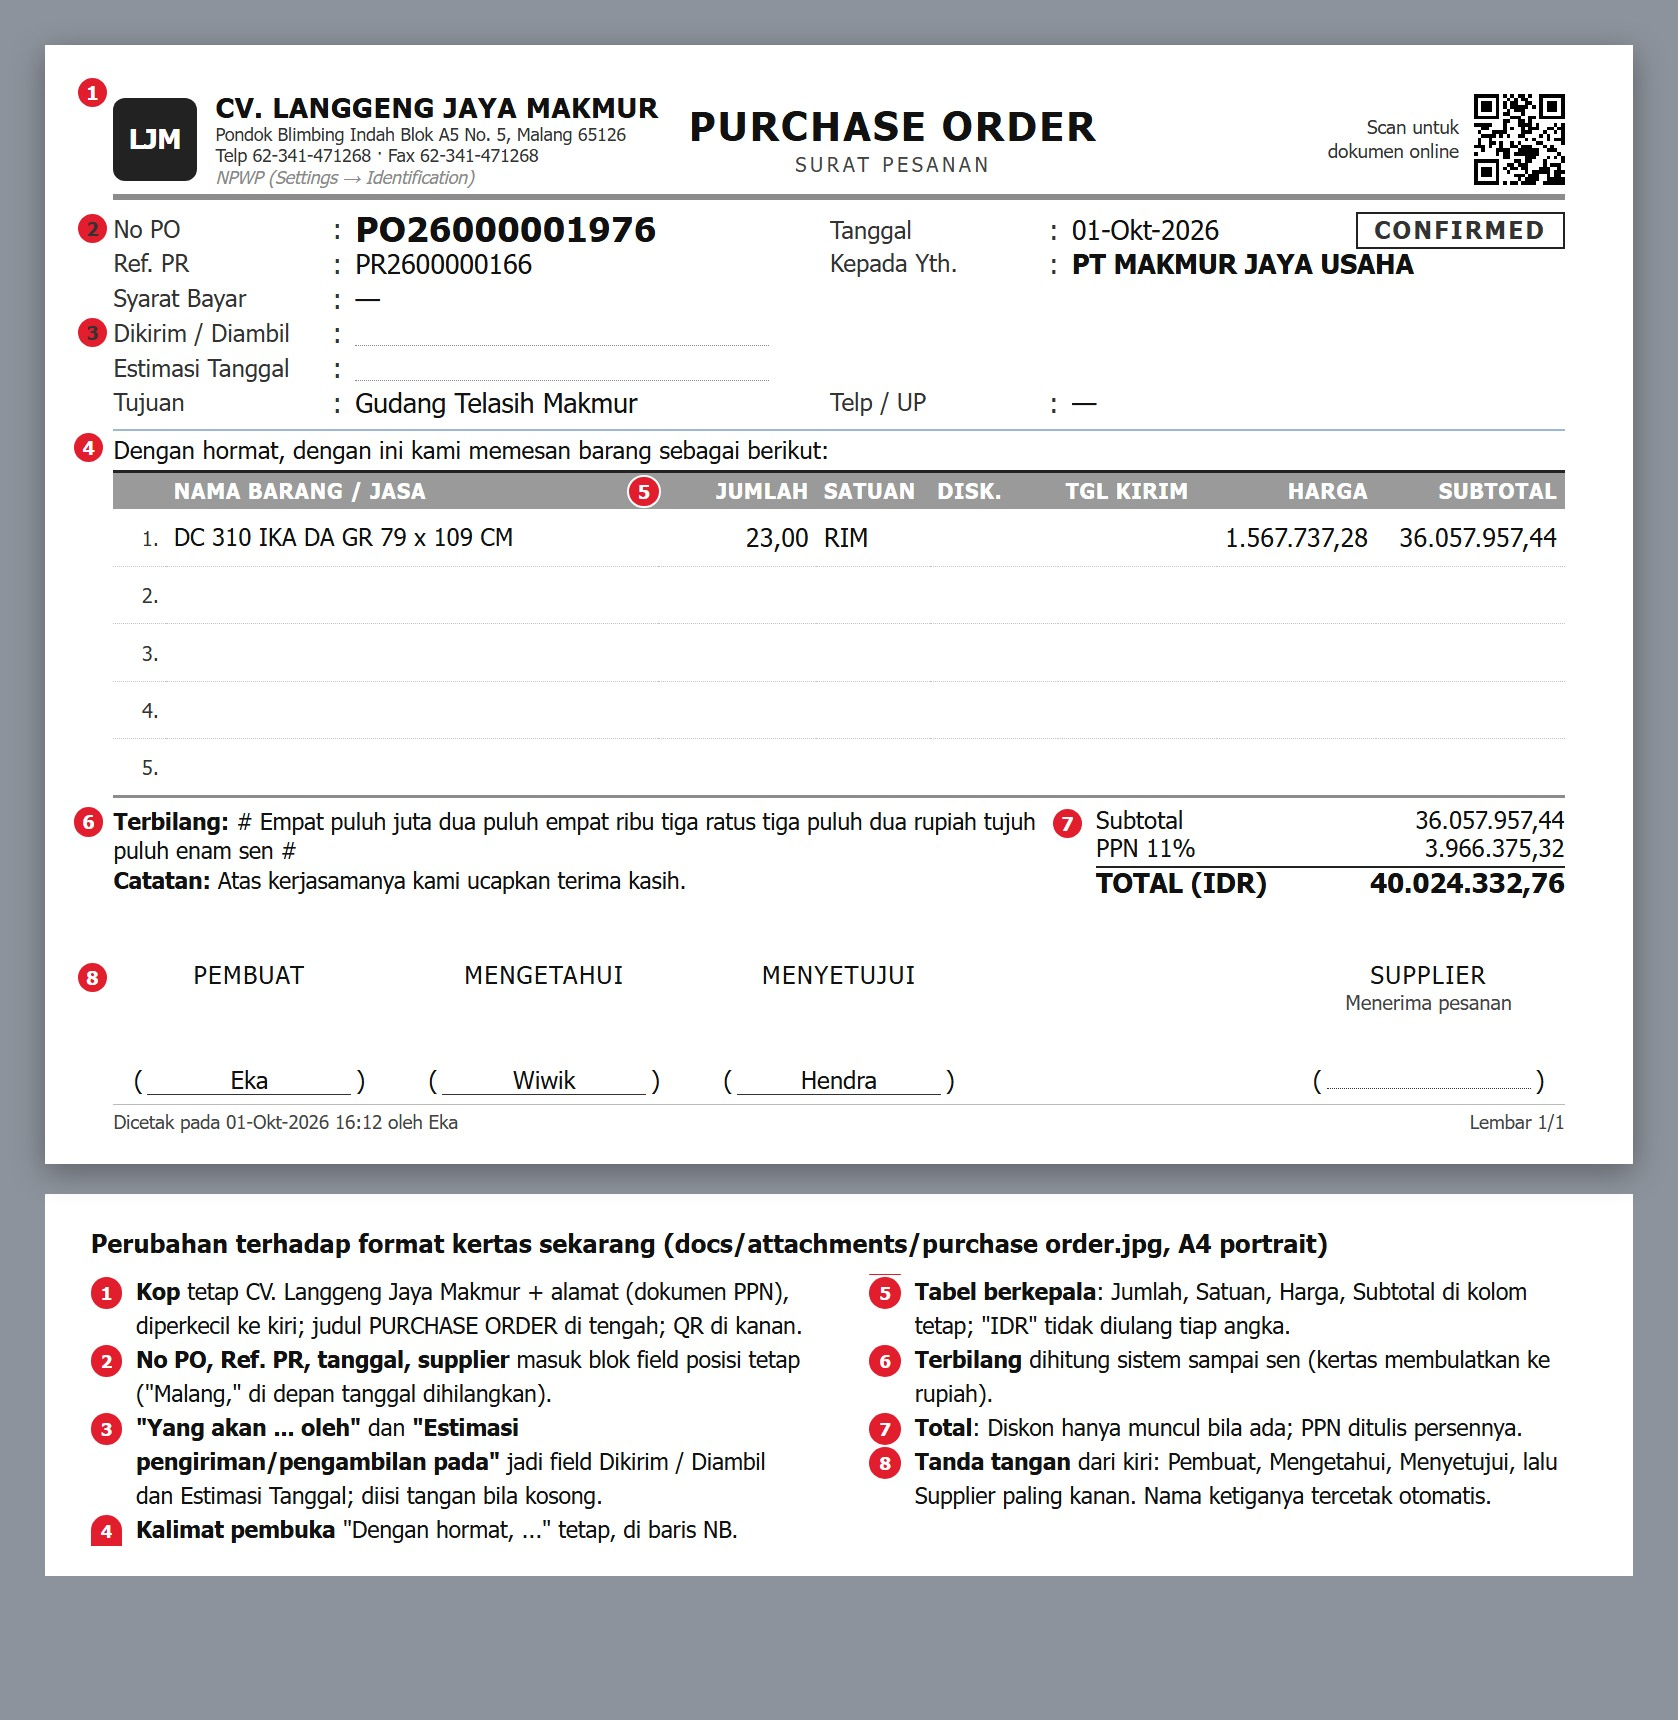
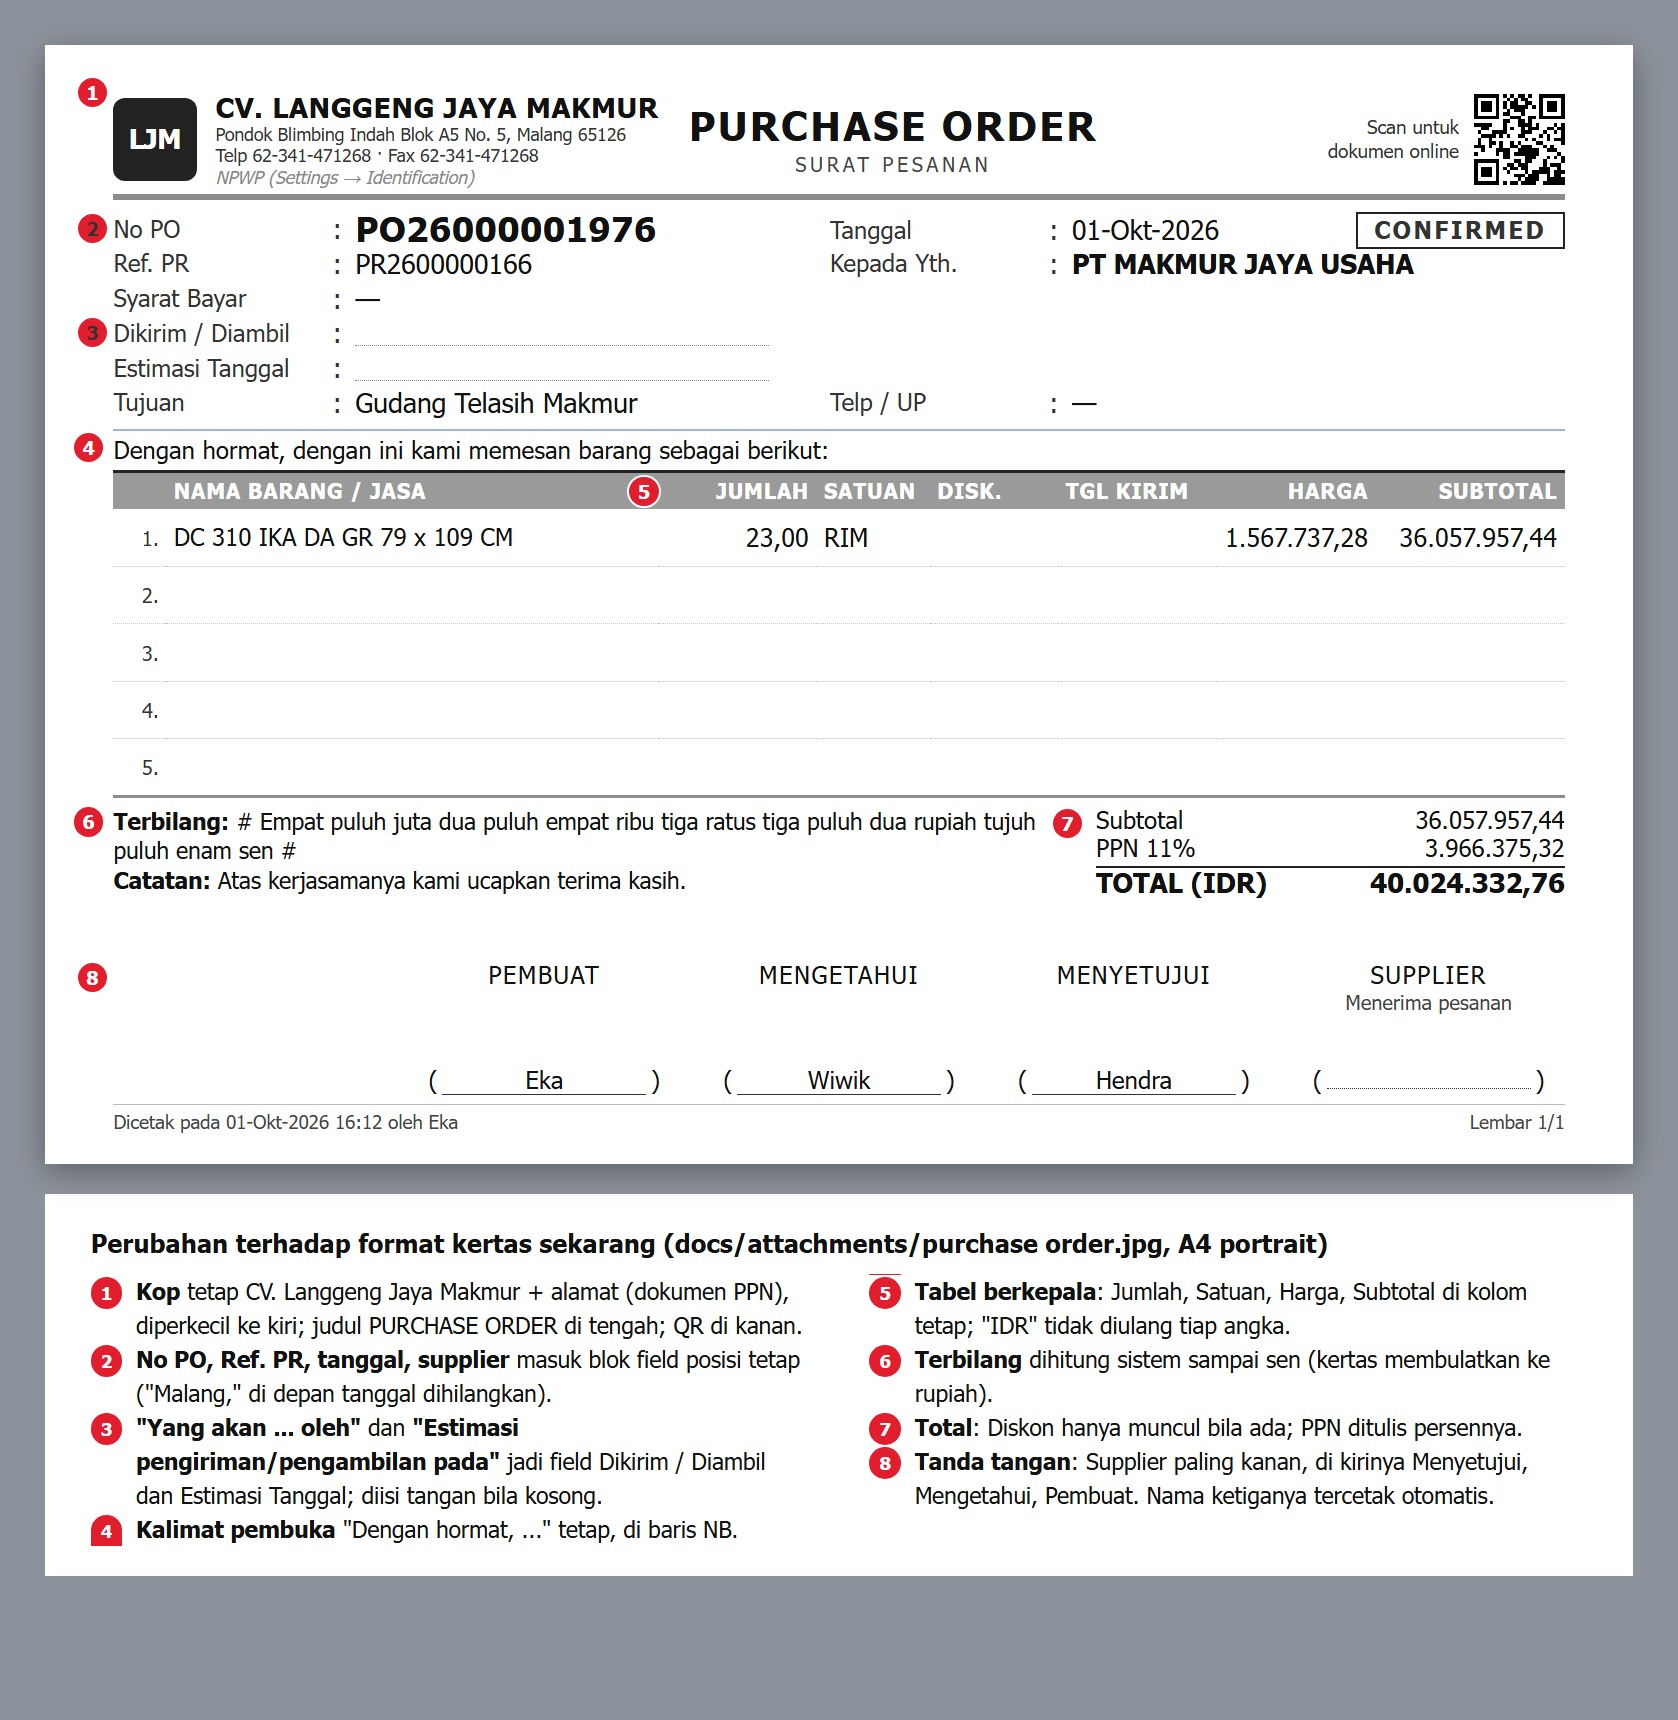
Print mockups: Purchase Order signatures packed to the right (Pembuat, Mengetahui, Menyetujui, Supplier)
User correction 2026-10-01: supplier at the far right, then Hendra, Wiwik, Eka; empty slot moves to the left.

diff --git a/docs/mockups/print_doc/printdoc.js b/docs/mockups/print_doc/printdoc.js
@@ -53,7 +53,7 @@ class PrintDoc {
     static priced = false;              // true = kolom harga + kotak total rupiah + terbilang
     static receivers = [];              // tanda tangan slot 1-2: [peran, keterangan]
     static internal = ['', '', ''];     // keterangan di bawah Mengetahui, Menyetujui, Pembuat
-    static signReversed = false;        // true = Pembuat, Mengetahui, Menyetujui dari kiri, pihak luar paling kanan (PO)
+    static signReversed = false;        // true = pihak luar paling kanan, di kirinya rapat Menyetujui, Mengetahui, Pembuat (PO)
     static qrHint = 'dokumen online';
 
     constructor(data) {
@@ -146,7 +146,7 @@ class PrintDoc {
         const [r1, r2] = this.f.receivers, [a, b, c] = this.f.internal;
         const slot = s => s ? `<div><span>${esc(s[0])}</span><small>${esc(s[1])}</small><i></i><b>(${s[2] ? `<u class="nm">${esc(s[2])}</u>` : '<u></u>'})</b></div>` : '<div></div>';
         const know = ['Mengetahui', a, this.d.knownBy], agree = ['Menyetujui', b, this.d.approvedBy], maker = ['Pembuat', c, this.d.createdBy];
-        return `<section class="sign">${(this.f.signReversed ? [maker, know, agree, r2, r1] : [r1, r2, know, agree, maker]).map(slot).join('')}</section>`;
+        return `<section class="sign">${(this.f.signReversed ? [r2, maker, know, agree, r1] : [r1, r2, know, agree, maker]).map(slot).join('')}</section>`;
     }
 
     foot() {

diff --git a/docs/mockups/print_doc/samples.js b/docs/mockups/print_doc/samples.js
@@ -79,7 +79,7 @@ const SAMPLES = {
                 '<b>Tabel berkepala</b>: Jumlah, Satuan, Harga, Subtotal di kolom tetap; "IDR" tidak diulang tiap angka.',
                 '<b>Terbilang</b> dihitung sistem sampai sen (kertas membulatkan ke rupiah).',
                 '<b>Total</b>: Diskon hanya muncul bila ada; PPN ditulis persennya.',
-                '<b>Tanda tangan</b> dari kiri: Pembuat, Mengetahui, Menyetujui, lalu Supplier paling kanan. Nama ketiganya tercetak otomatis.',
+                '<b>Tanda tangan</b>: Supplier paling kanan, di kirinya Menyetujui, Mengetahui, Pembuat. Nama ketiganya tercetak otomatis.',
             ],
         },
     },

diff --git a/docs/mockups/print_doc/documents.js b/docs/mockups/print_doc/documents.js
@@ -69,7 +69,7 @@ PrintDoc.register(class PurchaseOrder extends PrintDoc {
     static extra = [{key: 'disc', label: 'DISK.', width: 17}, {key: 'due_date', label: 'TGL KIRIM', width: 21, type: 'date'}];
     static priced = true;
     static receivers = [['Supplier', 'Menerima pesanan']];
-    // Keputusan user 2026-10-01: PO dari kiri = Pembuat, Mengetahui, Menyetujui, lalu Supplier paling kanan.
+    // Keputusan user 2026-10-01: PO dari kanan = Supplier, Menyetujui, Mengetahui, Pembuat (rapat, slot kosong di kiri).
     static signReversed = true;
 });
 

diff --git a/docs/globaluserrules.md b/docs/globaluserrules.md
@@ -176,8 +176,8 @@
     No CO kosong); harga estimasi tetap di kolom Harga / Subtotal (usulan tata letak, menunggu OK user).
     **Kop Telasih Makmur memakai alamat yang sama dengan CV. Langgeng Jaya Makmur** (Pondok Blimbing Indah Blok A5 No. 5,
     Malang 65126, Telp/Fax 62-341-471268) dan **tidak memakai NPWP**; NPWP hanya di kop dokumen PPN.
-    **Tanda tangan Purchase Order dari kiri: Pembuat (Eka), Mengetahui (Wiwik), Menyetujui (Hendra), lalu Supplier paling
-    kanan.**
+    **Tanda tangan Purchase Order: Supplier paling kanan, lalu ke kiri rapat Menyetujui (Hendra), Mengetahui (Wiwik),
+    Pembuat (Eka).**
 25. **Form ProDev berlatar putih — user 2026-10-01:** workbench Imposition (dulu gelap/navy) memakai **latar putih** seperti
     layar lain, warnanya lewat token tema DevLib (bukan hex). Tata letak dan isi tidak berubah; area gambar berlatar abu muda
     supaya lembar cetak (putih) tetap terlihat. Pratinjau & cetak Master Card tidak berubah.
